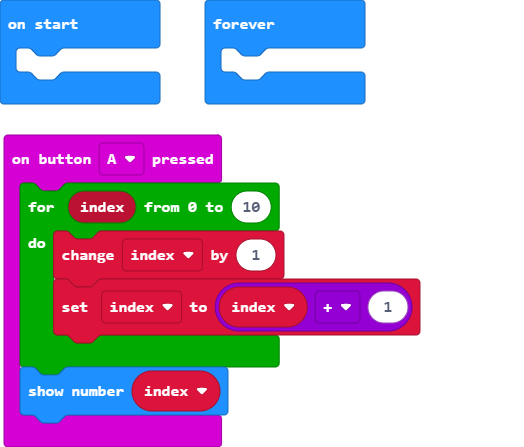
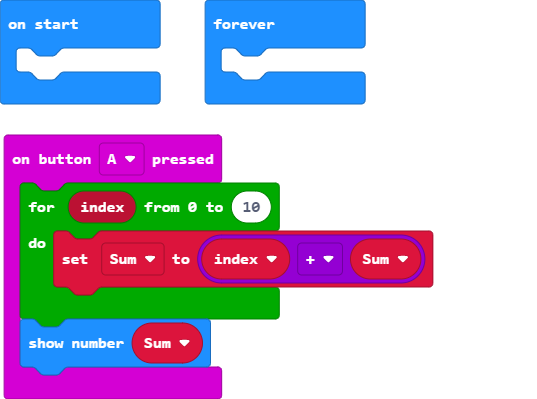
Update main.blocks, main.ts

Changed region(s): [[0.0, 0.3008, 0.8244, 1.0], [0.3664, 0.0, 0.7023, 0.2707], [0.0, 0.0, 0.3053, 0.2707]]

diff --git a/main.ts b/main.ts
@@ -1,10 +1,9 @@
+let Sum = 0
 input.onButtonPressed(Button.A, function () {
-    let index = 0
     for (let index = 0; index <= 10; index++) {
-        index += 1
-        index = index + 1
+        Sum = index + Sum
     }
-    basic.showNumber(index)
+    basic.showNumber(Sum)
 })
 basic.forever(function () {
 	
